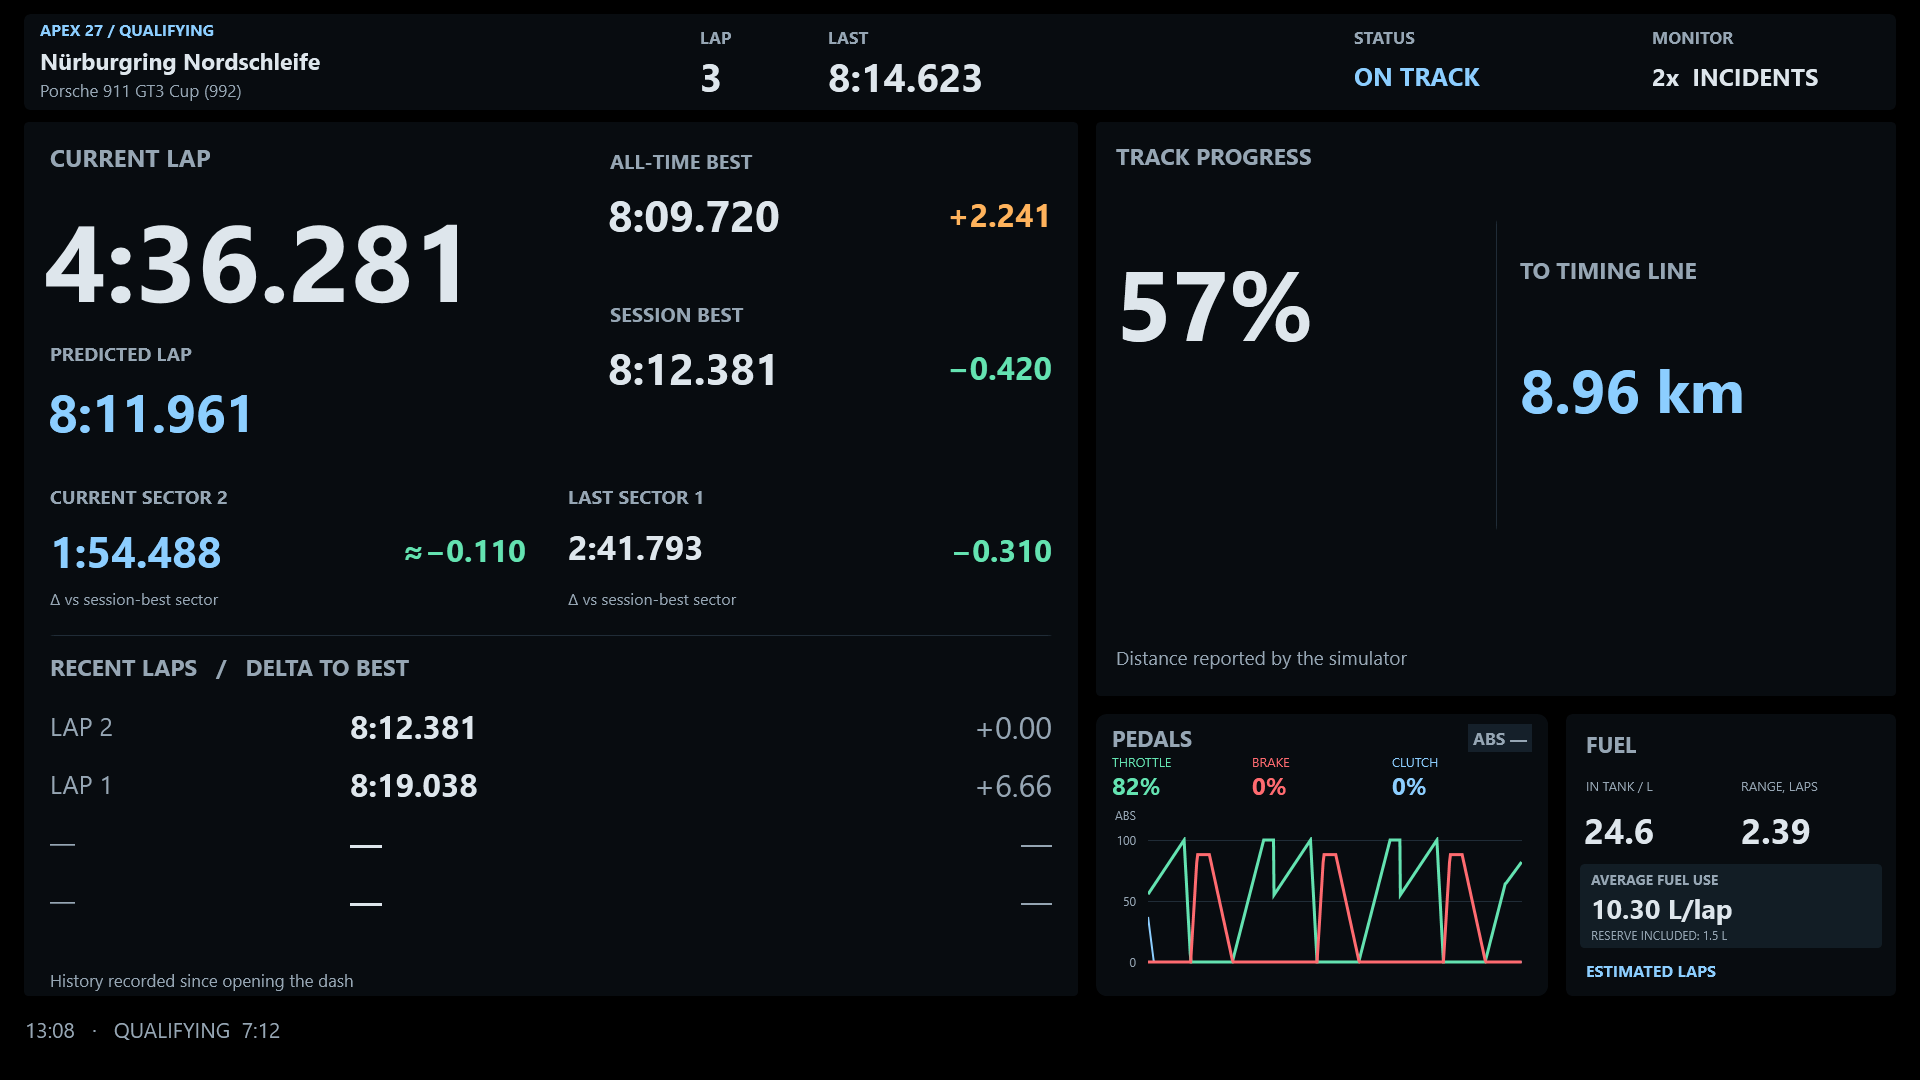
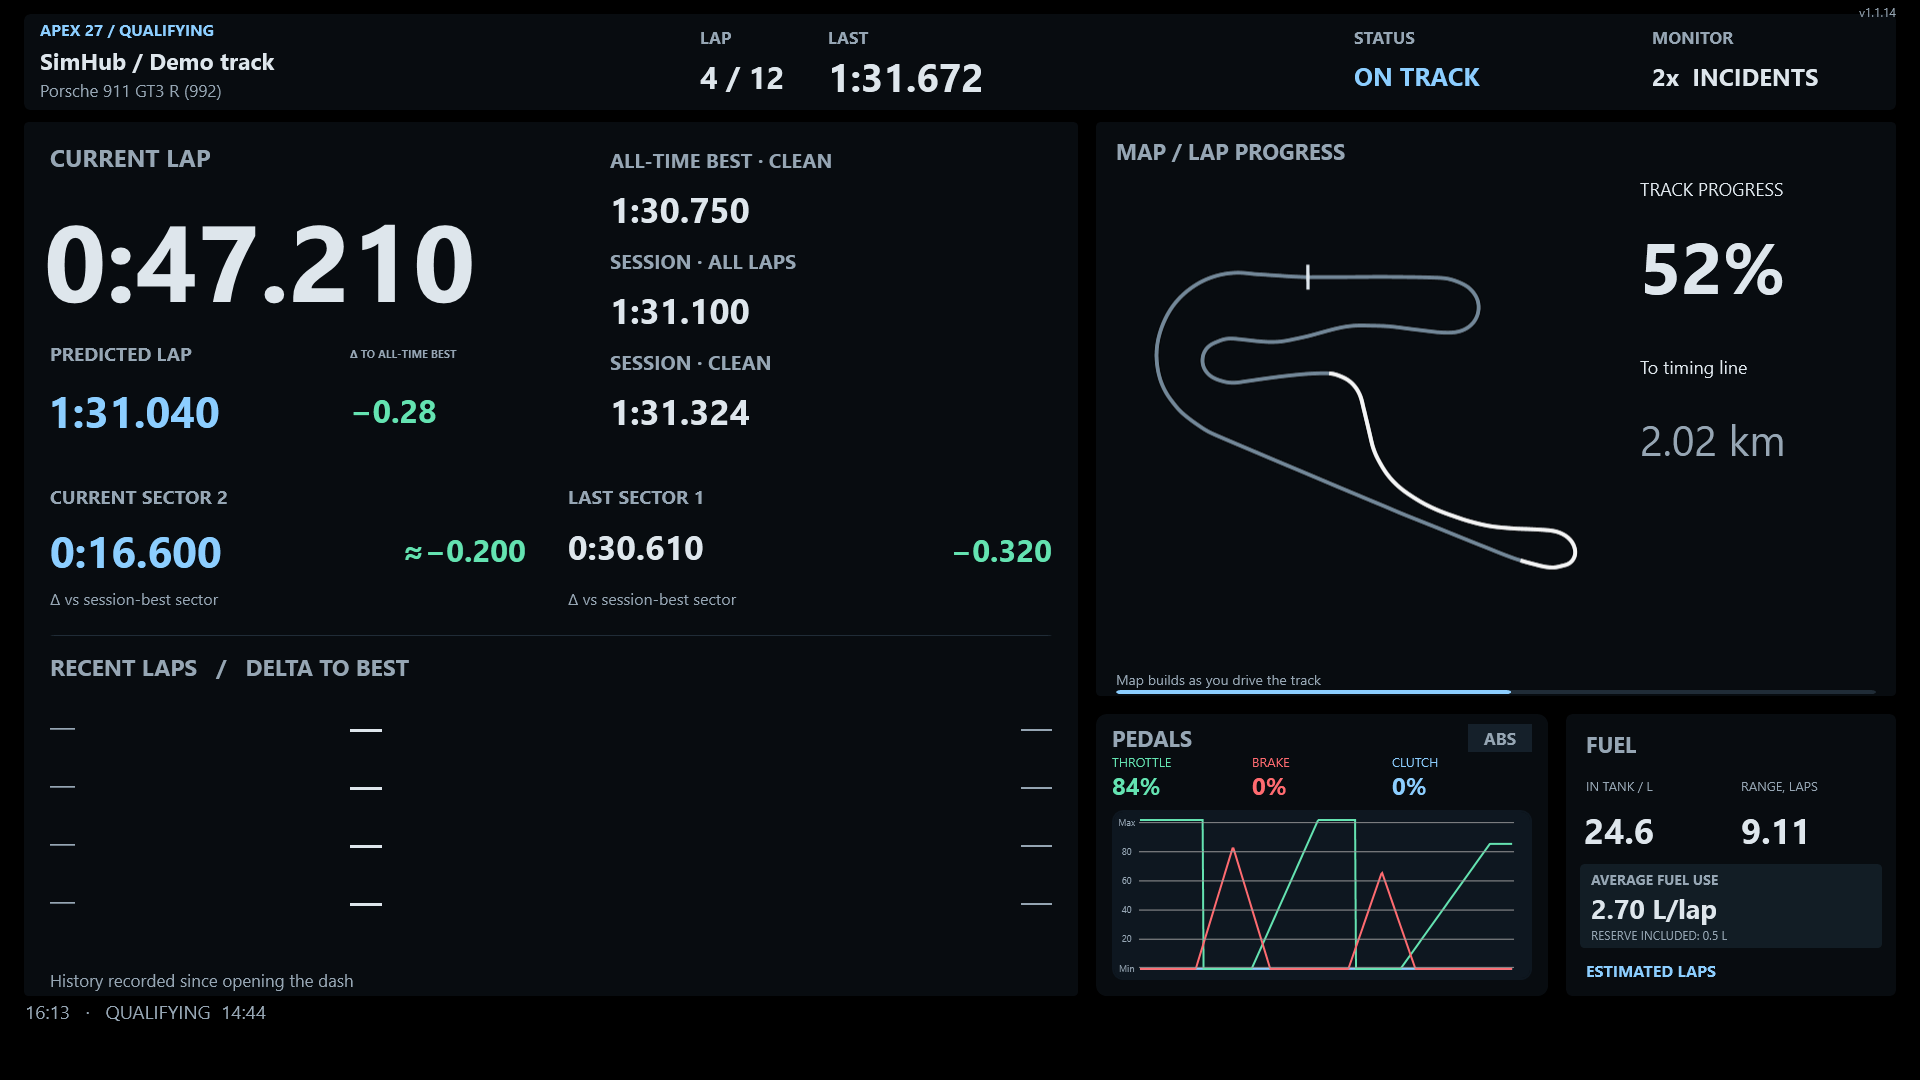
Rename companion plugin and refresh release previews

diff --git a/src/APEX27.js b/src/APEX27.js
@@ -19,7 +19,7 @@ function a27languageChoice() {
 function a27lang() {
   var manual=a27normalizeLanguage(a27languageChoice());
   if(manual!=='')return manual;
-  return a27normalizeLanguage(a27p('Apex27LanguagePlugin.Code'))||'en';
+  return a27normalizeLanguage(a27p('Apex27Plugin.Code'))||'en';
 }
 function a27t(index) {
   var values=A27_CATALOGS[a27lang()],fallback=A27_CATALOGS.en;
@@ -1072,10 +1072,10 @@ var H2_WORLD_LABELS={en:'NOT ON TRACK',ru:'НЕ НА ТРАССЕ',de:'NICHT AUF
 function h2irRaw() {
   if(!a27live()||!a27ir())return null;
   try {
-    var raw=NewRawData(),serialized=a27p('Apex27LanguagePlugin.LiveTelemetryJson');
-    var telemetry=serialized?JSON.parse(String(serialized)):a27p('Apex27LanguagePlugin.LiveTelemetry');
+    var raw=NewRawData(),serialized=a27p('Apex27Plugin.LiveTelemetryJson');
+    var telemetry=serialized?JSON.parse(String(serialized)):a27p('Apex27Plugin.LiveTelemetry');
     if(!telemetry) {
-      var status=a27p('Apex27LanguagePlugin.LiveTelemetryStatus');
+      var status=a27p('Apex27Plugin.LiveTelemetryStatus');
       // Do not rewind history to the adapter's retained packet after a direct
       // stream stalls or disconnects. An absent bridge can still use SimHub.
       if(status==='Stale'||status==='Disconnected'||status==='Invalid data'||status==='Updating')return null;
@@ -2431,7 +2431,7 @@ function h2personalContext(){
 }
 function h2personalClean(){
  var key=h2personalContext();if(!key)return null;
- var serialized=String(a27p('Apex27LanguagePlugin.CleanLapRecordsJson')||'{}'),cache=A27_STATE.cleanRecords;
+ var serialized=String(a27p('Apex27Plugin.CleanLapRecordsJson')||'{}'),cache=A27_STATE.cleanRecords;
  if(!cache||cache.json!==serialized){var values={};try{values=JSON.parse(serialized);}catch(e){}cache=A27_STATE.cleanRecords={json:serialized,values:values};}
  var own=A27_STATE.cleanLocal||(A27_STATE.cleanLocal={}),lap=h2lapObserve().bestClean,record=cache.values[key];
  if(record&&record.seconds>0&&(!own[key]||record.seconds<own[key].seconds))own[key]=record;

diff --git a/src/build.py b/src/build.py
@@ -2,6 +2,9 @@
 from pathlib import Path
 from zipfile import ZIP_DEFLATED, ZipFile
 import json
+import argparse
+import re
+import shutil
 
 ROOT = Path(__file__).resolve().parent
 
@@ -19,6 +22,9 @@ def validate_border_radii(value, path='dashboard'):
             validate_border_radii(child, f'{path}[{index}]')
 
 def main():
+    parser = argparse.ArgumentParser(description=__doc__)
+    parser.add_argument('--release', action='store_true', help='Also assemble the plugin, instructions, previews and publication ZIP.')
+    args = parser.parse_args()
     for name in ('APEX 27', 'APEX 27 Full'):
         dashboard = ROOT / 'dashboards' / name / (name + '.djson')
         validate_border_radii(json.loads(dashboard.read_text(encoding='utf-8')), name)
@@ -32,6 +38,31 @@ def main():
                 if file.is_file():
                     archive.write(file, name + '/' + file.name)
             archive.write(ROOT / 'APEX27.js', name + '/JavascriptExtensions/APEX27.js')
+        print(destination)
+    if args.release:
+        release = output.parent
+        plugin = ROOT / 'plugin' / 'bin' / 'Apex27Plugin.dll'
+        if not plugin.is_file():
+            raise FileNotFoundError('Build src/plugin/build.ps1 before assembling a release.')
+        version_source = (ROOT / 'plugin' / 'Apex27Plugin.cs').read_text(encoding='utf-8')
+        version = re.search(r'AssemblyFileVersion\("(\d+\.\d+\.\d+)\.0"\)', version_source).group(1)
+        (release / 'plugins').mkdir(exist_ok=True)
+        (release / 'previews').mkdir(exist_ok=True)
+        shutil.copy2(plugin, release / 'plugins' / plugin.name)
+        shutil.copy2(ROOT.parent / 'INSTALL.md', release / 'INSTALL.md')
+        members = [release / 'INSTALL.md', release / 'plugins' / plugin.name]
+        members.extend(output / (name + '.simhubdash') for name in ('APEX 27', 'APEX 27 Full'))
+        for variant in ('standard', 'full'):
+            for mode in ('race', 'practice', 'qualifying'):
+                name = f'{variant}-{mode}.png'
+                destination = release / 'previews' / name
+                shutil.copy2(ROOT.parent / 'assets' / name, destination)
+                members.append(destination)
+        destination = release / f'APEX27-v{version}.zip'
+        # Use explicit product files: unrelated files in releases are never included.
+        with ZipFile(destination, 'w', ZIP_DEFLATED) as archive:
+            for file in members:
+                archive.write(file, 'APEX27/' + file.relative_to(release).as_posix())
         print(destination)
 
 if __name__ == '__main__':

diff --git a/src/plugin/Apex27Plugin.cs b/src/plugin/Apex27Plugin.cs
@@ -3,15 +3,15 @@ using System.Reflection;
 using SimHub.Plugins;
 using WoteverLocalization;
 
-[assembly: AssemblyVersion("1.1.13.0")]
-[assembly: AssemblyFileVersion("1.1.13.0")]
+[assembly: AssemblyVersion("1.1.14.0")]
+[assembly: AssemblyFileVersion("1.1.14.0")]
 
 // Reads simulator telemetry without sending commands. New observed clean
 // records are saved to the plugin's local history outside the display thread.
-[PluginName("APEX 27 language bridge")]
+[PluginName("APEX 27 bridge")]
 [PluginAuthor("Lord-of-the-Bots")]
-[PluginDescription("Provides APEX 27 live iRacing telemetry, map labels and automatic interface translation.")]
-public sealed class Apex27LanguagePlugin : IPlugin
+[PluginDescription("Provides APEX 27 live iRacing telemetry, map markers, clean lap records and automatic language selection.")]
+public sealed class Apex27Plugin : IPlugin
 {
     private Apex27IRacingTelemetry telemetry;
     private Apex27CleanLapStore cleanLaps;

diff --git a/INSTALL.md b/INSTALL.md
@@ -1,4 +1,4 @@
-# Install APEX 27 · v1.1.13
+# Install APEX 27 · v1.1.14
 
 Requires **SimHub 9.13.3 or newer** on Windows, the included bridge DLL and a working telemetry connection to the game.
 
@@ -6,8 +6,8 @@ This release focuses on **iRacing**, with telemetry, standings and update perfor
 
 ## Import and open
 
-1. Open the release folder.
-   Close SimHub, copy `plugins/Apex27LanguagePlugin.dll` beside `SimHubWPF.exe`, replacing an older copy if present, then restart SimHub and enable **APEX 27 language bridge**. Install this DLL before importing a dashboard: it supplies the live map component.
+1. Extract `APEX27-v1.1.14.zip` and open the extracted folder.
+   Close SimHub. For an upgrade, remove the former `Apex27LanguagePlugin.dll` from beside `SimHubWPF.exe`. Copy `plugins/Apex27Plugin.dll` beside `SimHubWPF.exe`, replacing an earlier copy of that same filename if present. Do not leave both plugin DLLs installed. Restart SimHub and enable **APEX 27 bridge**. Install this DLL before importing a dashboard: it supplies the live map component.
 2. Open either dashboard file and confirm the import in SimHub:
    - `APEX 27.simhubdash` — companion layout for wheel or external RPM, gear and flag displays. Includes a large square map, wide pedal graphs and compact fuel information; omits RPM, gear and the general flag panel in every session mode.
    - `APEX 27 Full.simhubdash` — for rigs that need driving instruments on screen, with an analogue tachometer, speed, gear and top-row flags.
@@ -17,14 +17,23 @@ This release focuses on **iRacing**, with telemetry, standings and update perfor
 
 Both variants retain automatic session views, lap prediction, traffic, the field ribbon, ratings and individual opponent flags when available. You may install both variants. Each keeps its own settings. Reimporting a dashboard file updates the matching dashboard. After an update, close and reopen the running dashboard to reload its scripts.
 
-## Language and map bridge
+## What the required plugin does
 
-The bridge DLL is required by the map component and reads the current iRacing telemetry directly from its local shared-memory feed. It sends no commands to the simulator. Automatic language selection is optional; manual selection always takes priority. Update the DLL together with the dashboard; the dashboard version appears in the upper-right corner and the DLL file version is 1.1.13.0.
+`Apex27Plugin.dll` has four roles:
+
+- Read current iRacing telemetry from its local shared-memory feed for the dashboard's live race data.
+- Supply the map component, including current position labels and marker locations.
+- Save observed clean lap records separately for each car and track configuration.
+- Read SimHub's interface language for **Auto — SimHub**.
+
+It sends no driving or pit commands to the simulator. The plugin is required by both dashboard variants even when language selection is manual or another game is used. Only automatic language selection is optional.
+
+The former name, `Apex27LanguagePlugin.dll`, described its original translation role. Version 1.1.14 uses `Apex27Plugin.dll` and appears as **APEX 27 bridge** in SimHub. Update the DLL and dashboard together: older dashboard packages reference the old assembly and property names. Do not merely rename the old DLL. Existing clean records in `PluginsData/APEX27/clean-laps.json` are retained. The dashboard version appears in the upper-right corner; this DLL's file version is 1.1.14.0.
 
 1. Close SimHub.
-2. Copy only `Apex27LanguagePlugin.dll` from the release's `plugins` folder into the SimHub installation folder, beside `SimHubWPF.exe`. Do not copy the entire `plugins` folder.
-3. Restart SimHub and enable **APEX 27 language bridge** in SimHub's plugin settings.
-4. In the dashboard's **Language** setting, select **Auto — SimHub**.
+2. Remove `Apex27LanguagePlugin.dll` if present, then copy only `Apex27Plugin.dll` from the release's `plugins` folder into the SimHub installation folder, beside `SimHubWPF.exe`. Do not copy the entire `plugins` folder.
+3. Restart SimHub and enable **APEX 27 bridge** in SimHub's plugin settings.
+4. Import the updated dashboard. Select **Auto — SimHub** in its **Language** setting if you want automatic language selection; otherwise choose a language manually.
 
 Auto uses English if the bridge is unavailable or SimHub's language is not included. Manual selection always takes priority. The standard and Full dashboards have separate language settings.
 

diff --git a/README.md b/README.md
@@ -6,7 +6,7 @@ A free SimHub dashboard for a dedicated 16:9 fourth monitor. The 1920 × 1080 la
 
 **iRacing is the focus of this release.** Telemetry handling, standings and update performance have been refined and optimized through roughly 20 races with repeated fixes between sessions. Other games have not received the same refinement and testing in this release cycle. Their existing integrations may work where suitable telemetry is available, but their current behaviour is unverified.
 
-The previews below show an earlier layout. The current release includes the revised traffic table, lap records, field ribbon and pedal graph described here.
+The previews below show the current dashboard rendered by SimHub with demonstration data. They illustrate the interface and are not captures from a live race.
 
 ![APEX 27](assets/standard-race.png)
 
@@ -62,15 +62,21 @@ Previews labelled **SimHub / Demo track** use SimHub's built-in demonstration ma
 
 English, Russian, German, Spanish, French, Italian, Brazilian Portuguese, Polish, Czech, Turkish, Japanese, Korean and Simplified Chinese.
 
-Choose a language in **Language**. Manual selection always takes priority. The included `Apex27LanguagePlugin.dll` provides the live map component and lets **Auto — SimHub** follow SimHub's interface language. Auto falls back to English if the language is unsupported.
+Choose a language in **Language**. Manual selection always takes priority. **Auto — SimHub** follows SimHub's interface language and falls back to English if it is unsupported.
+
+## Required APEX 27 plugin
+
+`Apex27Plugin.dll` is the dashboard's companion plugin. It reads live iRacing telemetry, supplies the map component and its current position labels, saves observed clean lap records per car and track, and provides SimHub's language for automatic language selection. It reads simulator data without sending driving or pit commands.
+
+The plugin is required for both dashboard variants, including when you choose a language manually or use another game. It was previously named `Apex27LanguagePlugin.dll`; the new name reflects its wider role.
 
 ## Installation
 
-Requires **SimHub 9.13.3 or newer** on Windows and the included `Apex27LanguagePlugin.dll`.
+Requires **SimHub 9.13.3 or newer** on Windows and the included `Apex27Plugin.dll`.
 
-Open `APEX 27.simhubdash` or `APEX 27 Full.simhubdash` and confirm the import in SimHub. Open the dashboard on your 16:9 display and choose its settings.
+Download and extract **APEX27-v1.1.14.zip** from the latest release. It contains both dashboards, the required plugin and installation instructions.
 
-Before importing the dashboard, close SimHub and copy `plugins/Apex27LanguagePlugin.dll` beside `SimHubWPF.exe`, replacing the older bridge if present. Restart SimHub and enable **APEX 27 language bridge**. The DLL supplies the map component even when a language is selected manually. See [INSTALL.md](INSTALL.md) for details.
+Close SimHub. If upgrading, remove the old `Apex27LanguagePlugin.dll` from beside `SimHubWPF.exe`, then copy `plugins/Apex27Plugin.dll` into that folder. Do not keep both plugins installed. Restart SimHub and enable **APEX 27 bridge**, then import either file from `dashboards`. Update the dashboard and plugin together: older dashboards still refer to the old plugin name. Open the updated dashboard on your 16:9 display. See [INSTALL.md](INSTALL.md) for details.
 
 ## Feedback
 
@@ -80,7 +86,7 @@ Suggestions for the displayed information, layout and element sizes are welcome 
 
 ## Build
 
-Run `python src/build.py` to create both dashboard files in `releases/dashboards`. Build the required bridge with `src/language-bridge/build.ps1 -SimHubDir "C:\Program Files (x86)\SimHub"` in PowerShell. The bridge output is `src/language-bridge/bin/Apex27LanguagePlugin.dll`; copy it into `releases/plugins` alongside the dashboard folder.
+Build the required plugin with `src/plugin/build.ps1 -SimHubDir "C:\Program Files (x86)\SimHub"` in PowerShell, then run `python src/build.py --release`. This creates both dashboard files, the plugin, instructions and previews under `releases`, plus the versioned ZIP for publication. To rebuild only the dashboard files, run `python src/build.py`.
 
 ## Support
 
